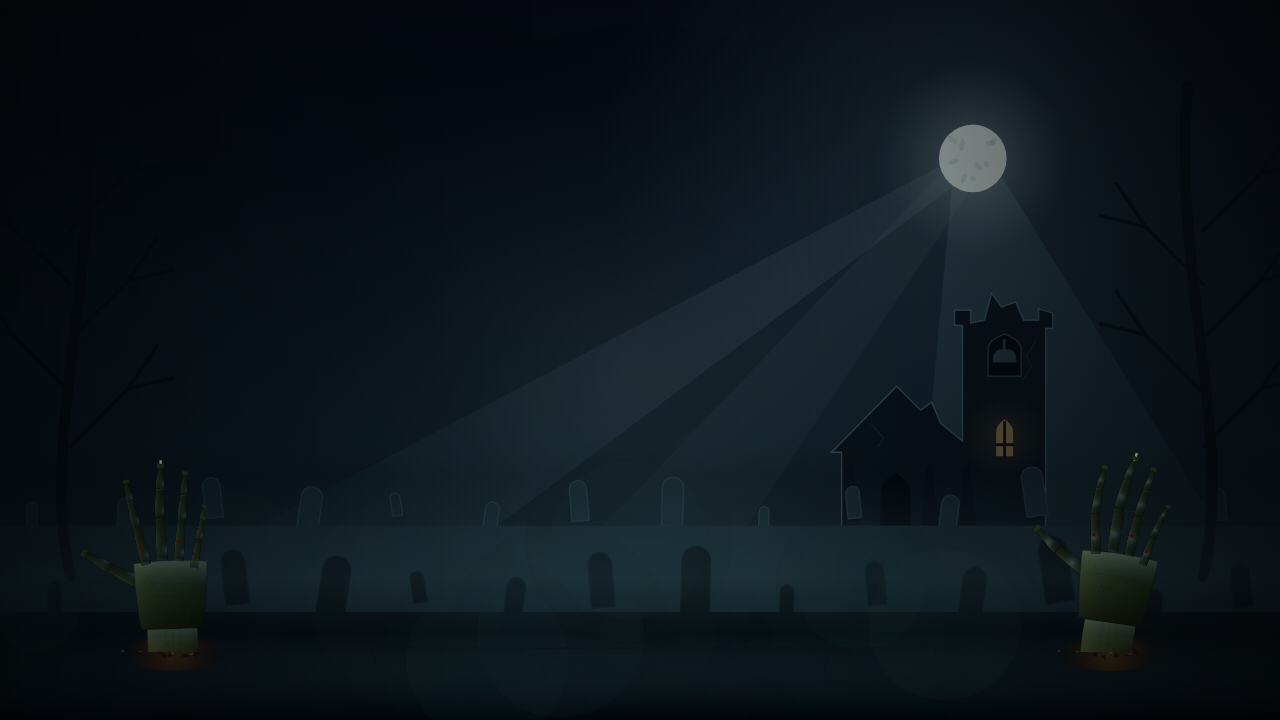
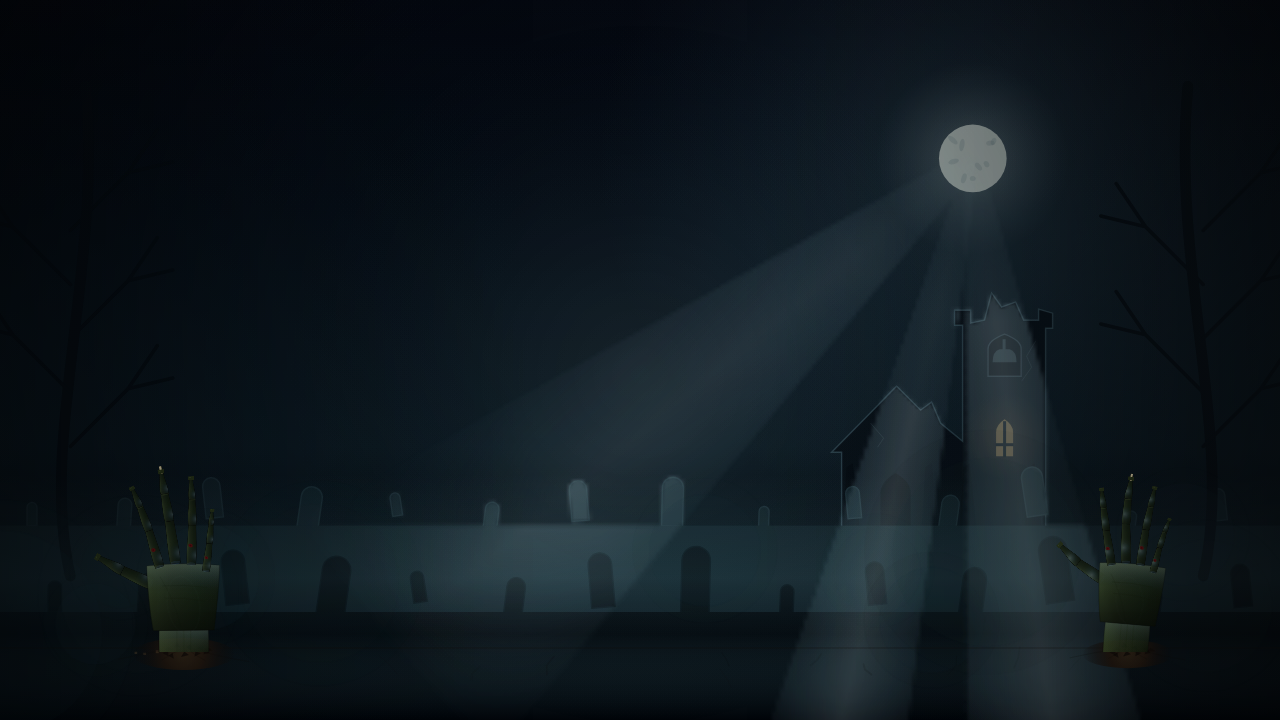
Animate moonbeams and project their light onto cemetery scenery

diff --git a/game/js/render/background-renderer.js b/game/js/render/background-renderer.js
@@ -1634,20 +1634,6 @@ class BackgroundRenderer {
         halo.addColorStop(1, 'rgba(64,112,140,0)');
         zctx.fillStyle = halo;
         zctx.fillRect(0, 0, w, h);
-        // Broad shafts share a single source behind the ruined treeline.
-        for (const [end, width, alpha] of [[0.14, 0.12, 0.10], [0.45, 0.07, 0.07], [0.86, 0.15, 0.14]]) {
-            const beam = zctx.createLinearGradient(moonX, moonY, w * end, groundY);
-            beam.addColorStop(0, `rgba(189,225,234,${alpha})`);
-            beam.addColorStop(0.75, `rgba(116,182,197,${alpha * 0.55})`);
-            beam.addColorStop(1, 'rgba(116,182,197,0)');
-            zctx.fillStyle = beam;
-            zctx.beginPath();
-            zctx.moveTo(moonX - unit * 0.025, moonY);
-            zctx.lineTo(w * (end - width), groundY);
-            zctx.lineTo(w * (end + width), groundY);
-            zctx.lineTo(moonX + unit * 0.025, moonY);
-            zctx.fill();
-        }
         zctx.fillStyle = '#d7e5df';
         zctx.beginPath();
         zctx.arc(moonX, moonY, unit * 0.047, 0, Math.PI * 2);
@@ -1661,6 +1647,12 @@ class BackgroundRenderer {
                 unit * (0.004 + i * 0.0006), unit * 0.0035, i, 0, Math.PI * 2);
             zctx.fill();
         }
+        // Separate sky from opaque scenery so moving shafts pass behind it.
+        this._zombieSkyCanvas = document.createElement('canvas');
+        this._zombieSkyCanvas.width = w;
+        this._zombieSkyCanvas.height = h;
+        this._zombieSkyCanvas.getContext('2d').drawImage(this._zombieStaticCanvas, 0, 0);
+        zctx.clearRect(0, 0, w, h);
         // Ruined chapel sits behind the graves, off the central ball lane.
         // Bake the masonry, rim light and window glow into the same static layer.
         zctx.save();
@@ -1810,6 +1802,47 @@ class BackgroundRenderer {
                 zctx.stroke();
             }
         }
+        // Cache a low-resolution surface mask before translucent mist/vignette.
+        // The same moving light field is intersected with this mask each frame.
+        this._zombieLightMask = document.createElement('canvas');
+        this._zombieLightMask.width = Math.max(1, Math.ceil(w * 0.25));
+        this._zombieLightMask.height = Math.max(1, Math.ceil(h * 0.25));
+        this._zombieLightMask.getContext('2d').drawImage(this._zombieStaticCanvas,
+            0, 0, this._zombieLightMask.width, this._zombieLightMask.height);
+        this._zombieLightCanvas = document.createElement('canvas');
+        this._zombieLightCanvas.width = this._zombieLightMask.width;
+        this._zombieLightCanvas.height = this._zombieLightMask.height;
+        this._zombieLightCtx = this._zombieLightCanvas.getContext('2d');
+        this._zombieFieldCanvas = document.createElement('canvas');
+        this._zombieFieldCanvas.width = this._zombieLightMask.width;
+        this._zombieFieldCanvas.height = this._zombieLightMask.height;
+        this._zombieFieldCtx = this._zombieFieldCanvas.getContext('2d');
+        // A feathered shaft sprite: all gradients are created only on resize.
+        this._zombieRayCanvas = document.createElement('canvas');
+        this._zombieRayCanvas.width = 128;
+        this._zombieRayCanvas.height = 512;
+        const ray = this._zombieRayCanvas.getContext('2d');
+        const feather = ray.createLinearGradient(0, 0, 128, 0);
+        feather.addColorStop(0, 'rgba(161,212,231,0)');
+        feather.addColorStop(0.25, 'rgba(161,212,231,0.35)');
+        feather.addColorStop(0.5, 'rgba(196,230,240,0.65)');
+        feather.addColorStop(0.75, 'rgba(161,212,231,0.35)');
+        feather.addColorStop(1, 'rgba(161,212,231,0)');
+        ray.fillStyle = feather;
+        ray.beginPath();
+        ray.moveTo(60, 0);
+        ray.lineTo(0, 512);
+        ray.lineTo(128, 512);
+        ray.lineTo(68, 0);
+        ray.fill();
+        ray.globalCompositeOperation = 'destination-in';
+        const fade = ray.createLinearGradient(0, 0, 0, 512);
+        fade.addColorStop(0, 'rgba(0,0,0,0.2)');
+        fade.addColorStop(0.2, 'rgba(0,0,0,1)');
+        fade.addColorStop(0.7, 'rgba(0,0,0,0.75)');
+        fade.addColorStop(1, 'rgba(0,0,0,0)');
+        ray.fillStyle = fade;
+        ray.fillRect(0, 0, 128, 512);
         const mist = zctx.createLinearGradient(0, h * 0.66, 0, h);
         mist.addColorStop(0, 'rgba(115,177,189,0)');
         mist.addColorStop(0.42, 'rgba(115,177,189,0.20)');
@@ -1826,10 +1859,59 @@ class BackgroundRenderer {
         return this._zombieStaticCanvas;
     }
 
+    _drawZombieMoonRays(ctx, w, h, strength = 1) {
+        if (!this._zombieRayCanvas) return;
+        const mx = w * 0.76, my = h * 0.22;
+        // Slow angular movement, not a blinking opacity effect. Surface lighting
+        // below uses these exact transforms, so it follows the visible shafts.
+        for (let i = 0; i < 3; i++) {
+            const angle = [0.78, 0.35, -0.24][i]
+                + Math.sin(this.time * (0.12 + i * 0.025) + i * 2.1) * 0.12;
+            const length = h * (1.05 + i * 0.05);
+            const width = w * [0.24, 0.14, 0.19][i];
+            ctx.save();
+            ctx.translate(mx, my);
+            ctx.rotate(angle);
+            ctx.globalAlpha *= strength * (0.78 + Math.sin(this.time * 0.19 + i) * 0.12);
+            ctx.drawImage(this._zombieRayCanvas, -width / 2, 0, width, length);
+            ctx.restore();
+        }
+    }
+
+    _renderZombieMoonlight(ctx, w, h) {
+        const light = this._zombieLightCtx;
+        if (!light || !this._zombieLightMask) return;
+        const lw = this._zombieLightCanvas.width, lh = this._zombieLightCanvas.height;
+        light.clearRect(0, 0, lw, lh);
+        // Build the complete light field before masking, so shafts combine
+        // rather than erasing each other under source-in compositing.
+        light.drawImage(this._zombieFieldCanvas, 0, 0);
+        light.globalCompositeOperation = 'destination-in';
+        light.drawImage(this._zombieLightMask, 0, 0);
+        light.globalCompositeOperation = 'source-over';
+        ctx.save();
+        ctx.globalCompositeOperation = 'screen';
+        ctx.globalAlpha = 0.55;
+        ctx.drawImage(this._zombieLightCanvas, 0, 0, w, h);
+        ctx.restore();
+    }
+
     renderZombie(ctx, w, h) {
         const groundY = h * 0.90;
         const staticLayer = this._ensureZombieStaticLayer(w, h, groundY);
+        if (this._zombieSkyCanvas) ctx.drawImage(this._zombieSkyCanvas, 0, 0);
+        const field = this._zombieFieldCtx;
+        if (field) {
+            const fw = this._zombieFieldCanvas.width, fh = this._zombieFieldCanvas.height;
+            field.clearRect(0, 0, fw, fh);
+            this._drawZombieMoonRays(field, fw, fh, 1);
+            ctx.save();
+            ctx.globalAlpha *= 0.28;
+            ctx.drawImage(this._zombieFieldCanvas, 0, 0, w, h);
+            ctx.restore();
+        }
         if (staticLayer) ctx.drawImage(staticLayer, 0, 0);
+        this._renderZombieMoonlight(ctx, w, h);
 
         // Match the cached moon so hand lighting stays anchored to its source.
         const moonX = w * 0.76;
@@ -3741,6 +3823,13 @@ class BackgroundRenderer {
     _buildCityLights() { /* no-op */ }
 
     _cleanupZombieCache() {
+        this._zombieSkyCanvas = null;
+        this._zombieLightMask = null;
+        this._zombieLightCanvas = null;
+        this._zombieLightCtx = null;
+        this._zombieFieldCanvas = null;
+        this._zombieFieldCtx = null;
+        this._zombieRayCanvas = null;
         this._zombieStaticCanvas = null;
         this._zombieStaticCtx = null;
         this._zombieStaticInitialized = false;
